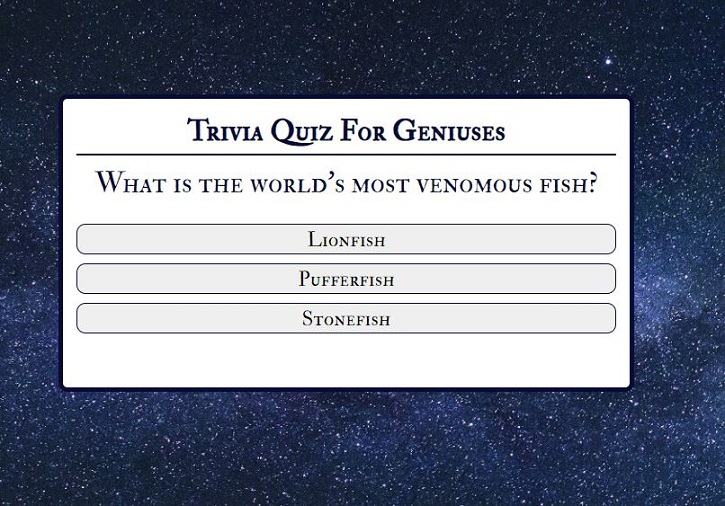
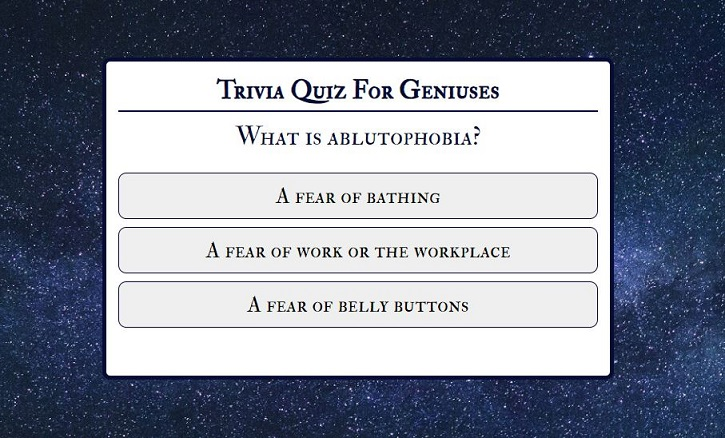
Add new screenshots for the game hover function and quiz page

diff --git a/README.md b/README.md
@@ -4,7 +4,7 @@ You can see the live site [here](https://amartins87.github.io/genius-trivia-quiz
 
 The purpose of Genius Trivia Quiz is to test user's general knowledge through a variety of advanced questions. The quiz is suitable for all those who would like to learn new interesting facts. 
 
-The objective of this project is to create a simple and easy to navigate quiz without a need to register. 
+The objective of this project is to create a simple and easy to navigate quiz without a need to register.
 
 ![Mock up image](assets/wireframes/Mock_up_MS2.JPG)
 
@@ -48,13 +48,14 @@ The objective of this project is to create a simple and easy to navigate quiz wi
 
 ## **FUTURE DEVELOPMENT**
 
-I would like to add pop-up modals with interesting facts about correct answers. I would also like to add a question counter and a timer. 
+I would like to add pop-up modals with interesting facts about correct answers. I would also like to add a question counter and a timer.
+I will also add new questions to keep the content interesting and educational for users. 
 
 ## **TESTING**
 
 Here are my [Balsamiq wireframes](assets/wireframes/Balsamiq_wireframe.JPG). 
 
-I kept the styling of the quiz to a minimum to make it accessible and easy to navigate through on every device without the need for media queries. I set a simple background image with a backup background color of black for a good contrast in case the image doesn't load up.
+I kept the styling of the quiz to a minimum to make it accessible and easy to navigate through on every device without the need for media queries. I set a simple background image with a backup background color of black for a good contrast in case the image doesn't load up. The site consists only one page and is responsive.s
 
 I tested the quiz in Chrome Developer Tools using responsive design as well as all of the available device types listed. 
 
